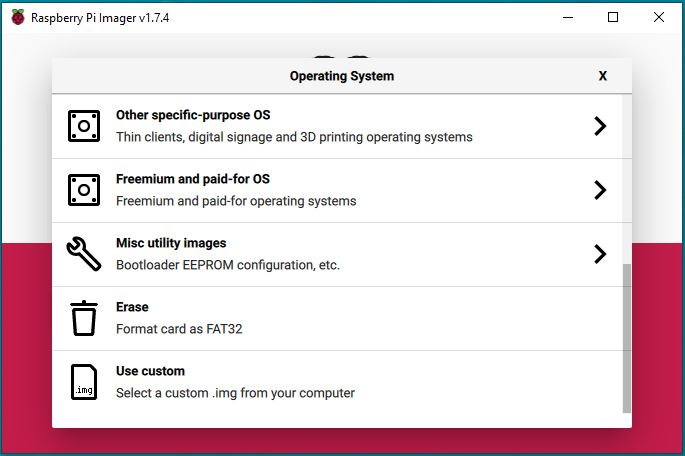
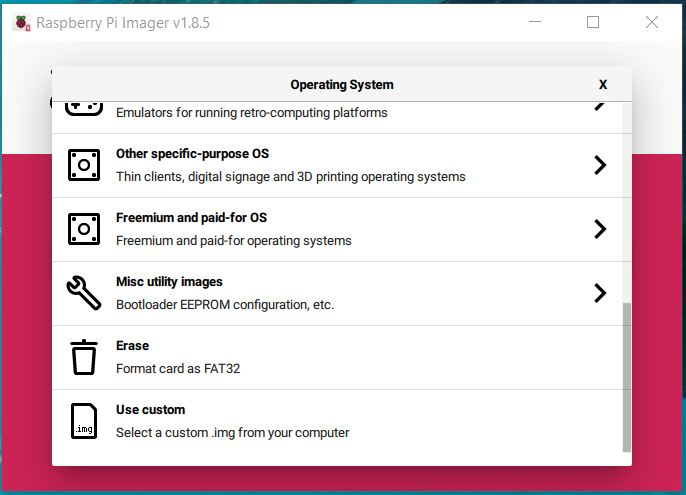
New OS image; New imager version

diff --git a/README.md b/README.md
@@ -11,6 +11,14 @@ All setup and configuration can be done from a Windows PC.  You don't need to lo
 See the Quick Start Guide in Section 1 below to get your station up and running.  
 See Section 2 if you want do dive a litte deeper into the details.  
 
+## Changelog  
+#### 2023-03-24
+- Pre-built image: `2024-03-24-rpi-sonde.img.xz` 
+  -- Includes RTL-SDR V4 driver  
+  -- Supports Radiosonde Auto-RX 1.7.2  
+- Instructions support Raspberry Pi Imager v1.8.5  
+
+
 ## Table of Contents
 1.    [Quick Start Guide](#quick-start-guide)  
 1.1   [Hardware Needed](#hardware-needed)  
@@ -40,15 +48,16 @@ Follow these instructions to get your station up and running.
 Note that some knowledge of Windows and Raspberry Pi is assumed.  
 
 ### 1.1 Hardware Needed <a name="hardware-needed"></a>  
-- [Raspberry Pi 3/4](https://www.raspberrypi.com/) with power supply  
+- [Raspberry Pi 3/4/5](https://www.raspberrypi.com/) with power supply  
 - [RTL-SDR dongle](https://www.rtl-sdr.com/rtl-sdr-quick-start-guide)  
 - Micro SD card in the range 8GB - 64GB  
 - Antenna suitable for the 400-406 MHz frequency range  
 
 ### 1.2 Software Needed <a name="software-needed"></a>  
 - The pre-built RTL-SDR Automatic Radiosonde Receiver Image located here:  
-https://www.dropbox.com/scl/fi/8tvo4vkd44ar3fgo6kzqs/2023-10-10-rpi-sonde.img.xz?rlkey=iquluja5slma2z61zbhek1drq&dl=0  
-You will need to download this image to your local PC - Note that the file size is 1.6 GB  
+https://www.dropbox.com/scl/fi/f5el392g9gnou3hew7234/2024-03-24-rpi-sonde.img.xz?rlkey=ywmumf9hdnjjxgro792vc5dpu&dl=0
+
+You will need to download this image to your local PC - Note that at least 2.1 GB of disk space is needed.  
 
 ### 1.3 Configuration Information Needed <a name="config-info-needed"></a>  
 You will need the following information to customize your station:  
@@ -76,37 +85,38 @@ The download page is here: https://www.raspberrypi.com/software
 
    <img src="./images/RaspberryPiImagerMain.jpg" alt="Raspberry Pi Imager" width="480"/>  
 
-4. Click the **CHOOSE OS** button.  
+4. Click the **CHOOSE DEVICE** button.  
+   Select the Raspberry Pi device you are using.  
+   
+5. Click the **CHOOSE OS** button.  
    Scroll down and click the **Use custom** option.  
    Navigate to the folder containing the pre-built image downloaded in Step 1 and select it.  
 
    <img src="./images/RaspberryPiImagerChooseOS.jpg" alt="Choose OS" width="480"/>  
 
-5. Click the **CHOOSE STORAGE** button.  
+6. Click the **CHOOSE STORAGE** button.  
    Select the Micro SD card inserted in Step 2.  
 
    <img src="./images/RaspberryPiImagerChooseStorage.jpg" alt="Choose Storage" width="480"/>  
 
-6. An *Advanced Options* button with a gear icon will appear on the main window. Click it.  
-   Select Image customization options **to always use**.  
-   Uncheck all customization options. Scroll down to make sure all options are unchecked.  
-   Leave the boxes in *Persistent Settings* checked.  
-   Click **SAVE**   
+7. Click the **NEXT** button.
+   A dialog box will appear with the question *Would you like to apply OS customisation settings?"  
+   Click **NO**    
 
-   <img src="./images/RaspberryPiImagerAdvanced.jpg" alt="Advanced Options" width="480"/>  
-
-7. Click the **WRITE** button.  An "*Are you sure you want to continue?*" warning message will be displayed. Click **YES**.  
+   <img src="./images/RaspberryPiImagerCustomisation.jpg" alt="Customisation Options" width="480"/>  
+   
+   A warning will appear that all existing data will be erased.  Click **YES** to continue.  
    The imager will write the image to the SD card and verify it.  
-   When complete, a *Write Successful* message box will appear.  
+
+8. When complete, a *Write Successful* message box will appear.  
    Remove the SD card and click **CONTINUE**.  
    Close the Raspberry Pi Imager application.  
    
    <img src="./images/RaspberryPiImagerComplete.jpg" alt="Write Successful" width="480"/> 
 
-8. A Windows File Explorer window may open with an error message saying that a drive is not accessible. This error can be ignored and dismissed.
+9. A Windows File Explorer window may open with an error message saying that a drive is not accessible. This error can be ignored and dismissed.
 
-   <img src="./images/LocationNotAvailable.jpg" alt="Location Not Available" />
-
+   <img src="./images/LocationNotAvailable.jpg" alt="Location Not Available" />  
 
 ### 1.6 Station Customization <a name="station-customization"></a>
 
